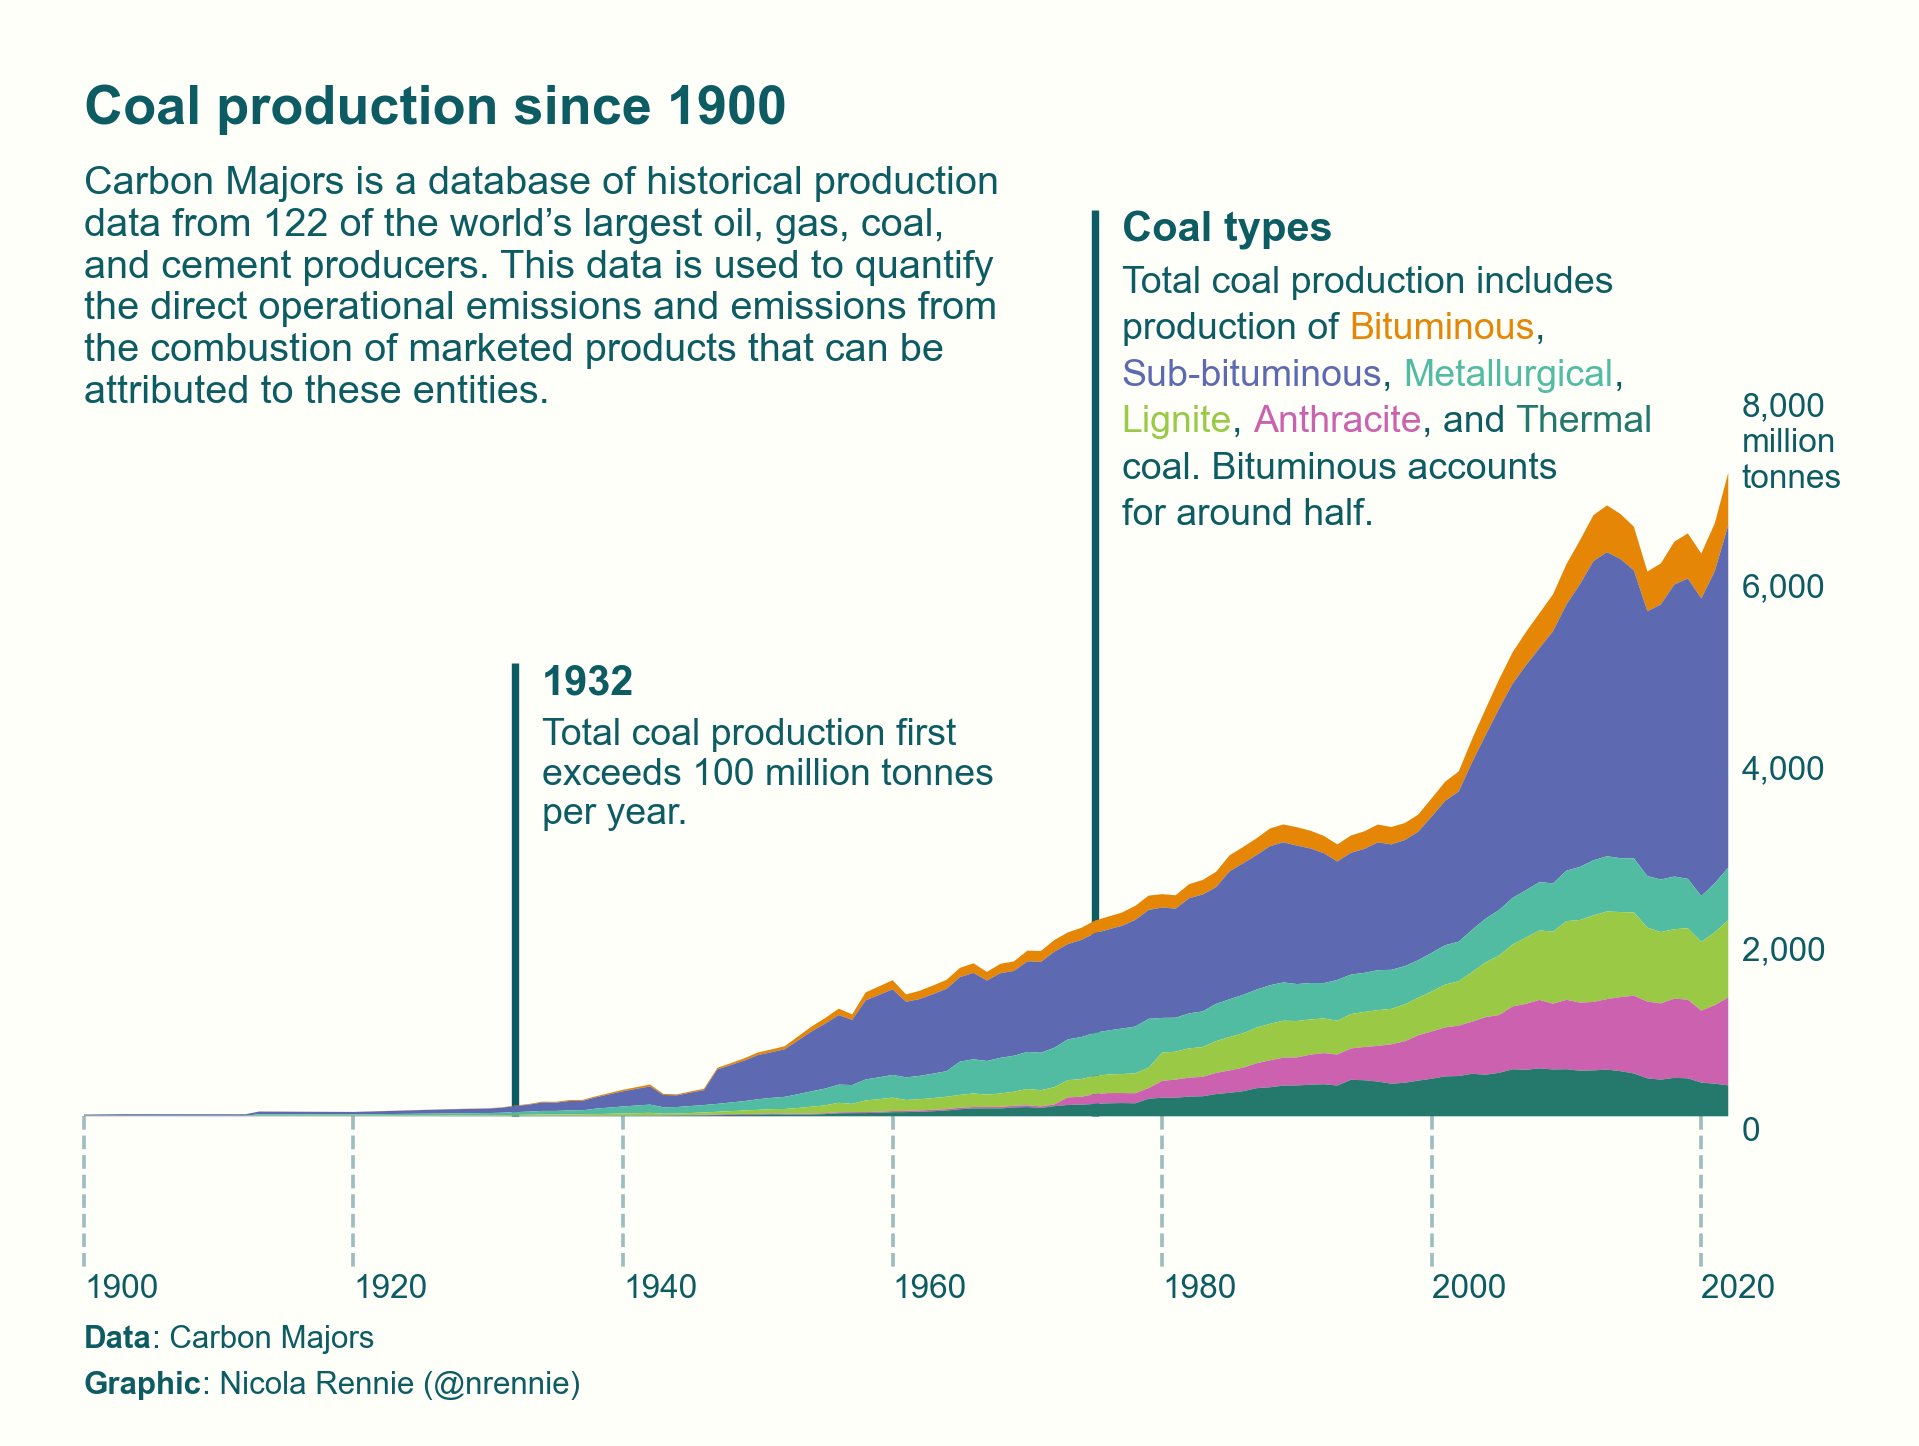
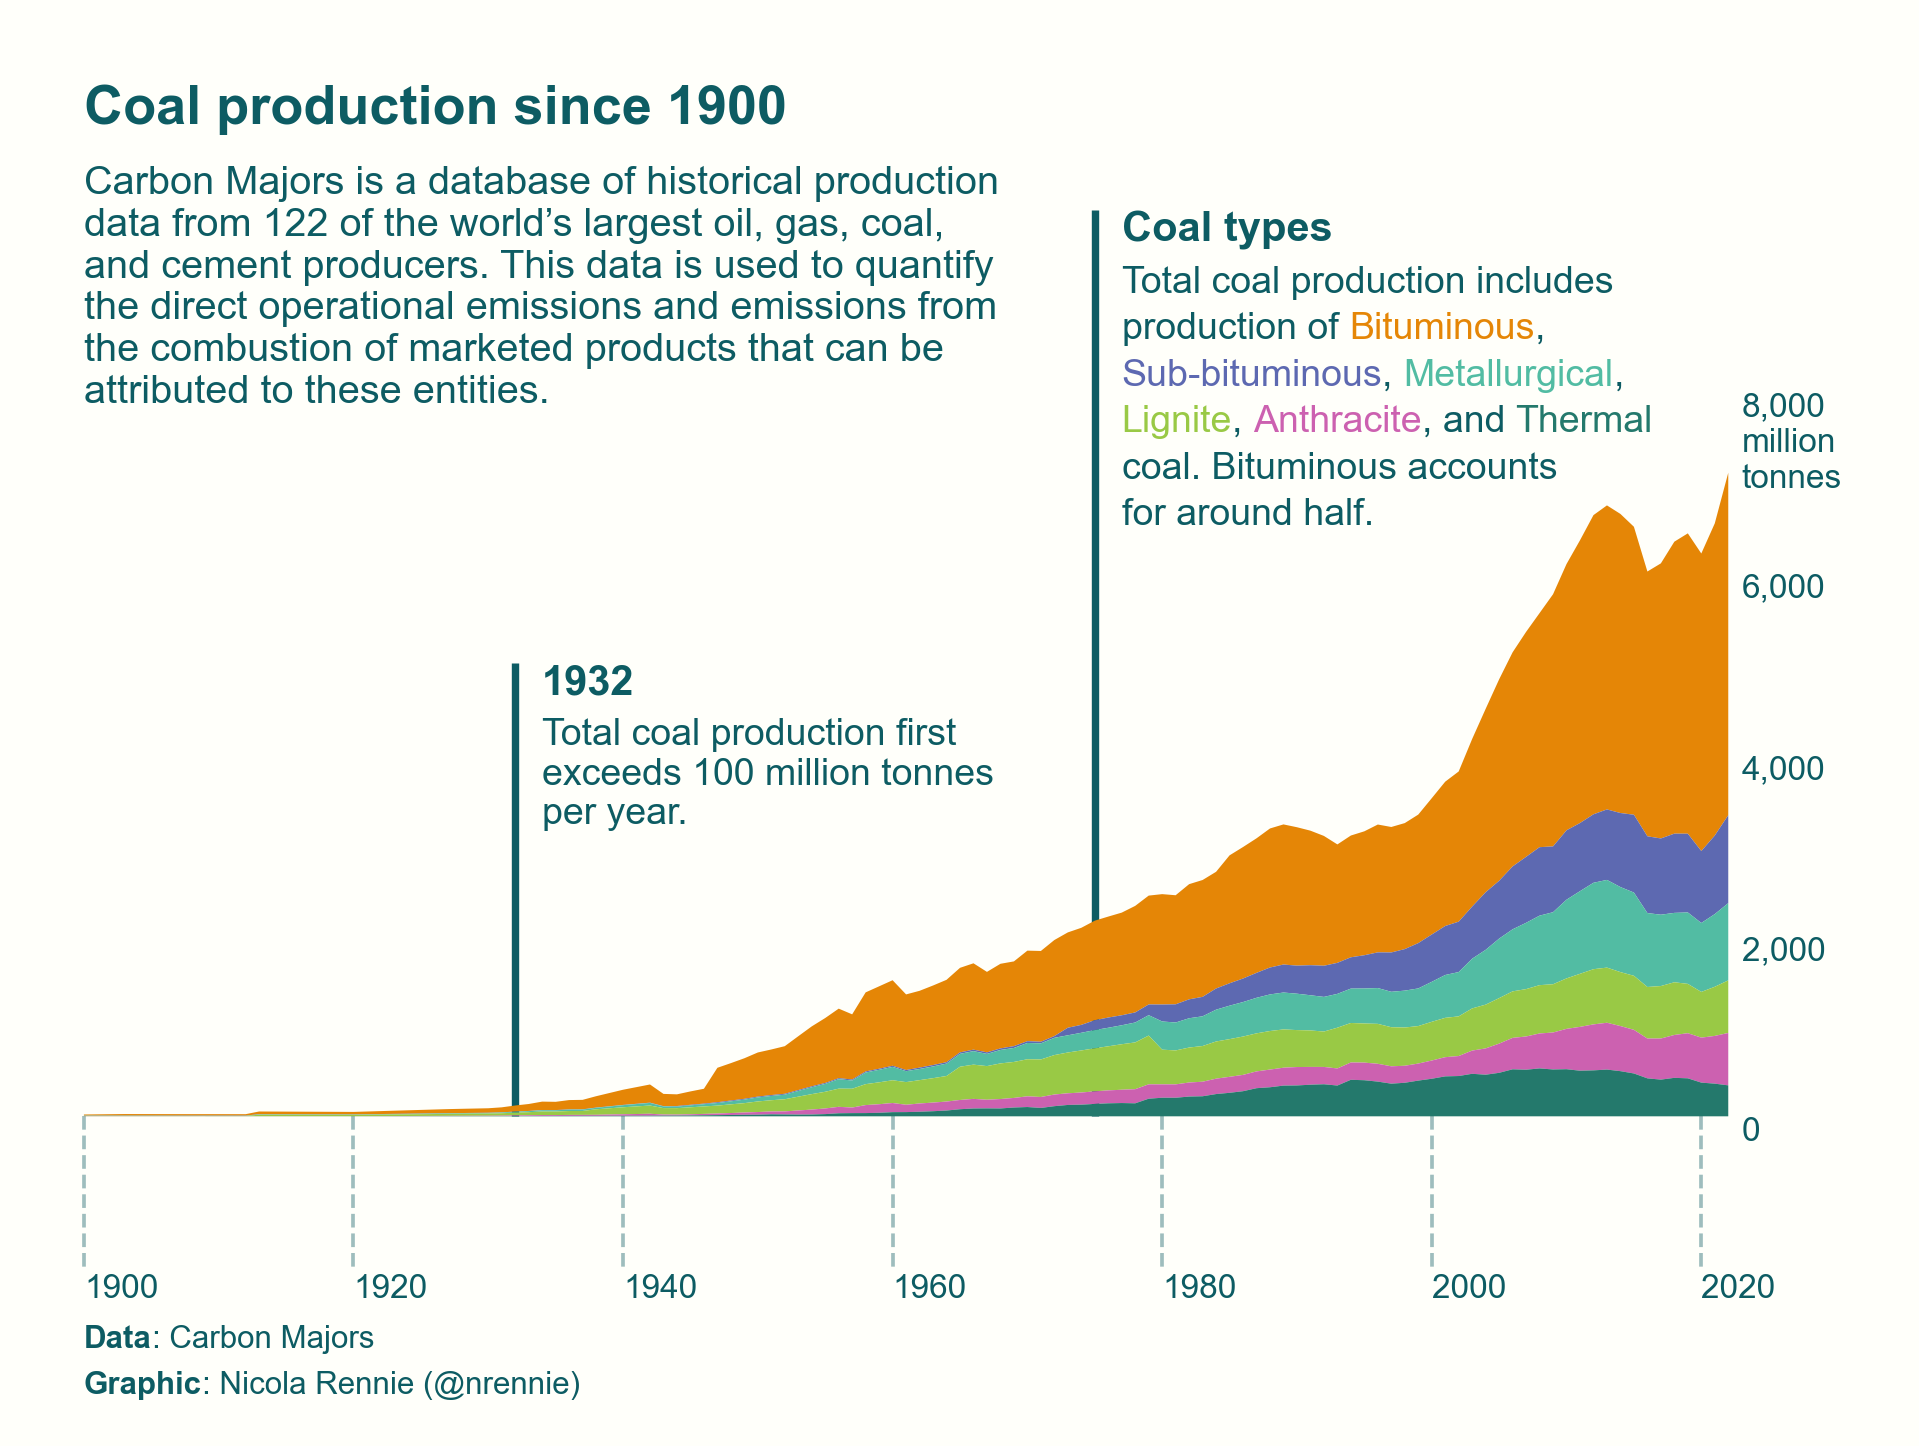
fix ordering

Changed region(s): [[0.1537, 0.3734, 0.9224, 0.778]]

diff --git a/plot.py b/plot.py
@@ -29,6 +29,14 @@ plot_data = plot_data.groupby(['year', 'commodity'], as_index=False).agg(
     {'production_value': 'sum'}).rename(columns={'production_value': 'n'})
 plot_data = plot_data[plot_data['year'] >= 1900]
 
+# Sort values by 2022 levels
+orders = plot_data[plot_data['year'] == 2022].sort_values(
+    by='n', ascending=False)['commodity']
+plot_data['commodity'] = pd.Categorical(
+    plot_data['commodity'],
+    categories=orders,
+    ordered=True)
+
 # Values for annotations
 exceeds100 = plot_data.groupby('year')['n'].sum()
 exceeds100 = exceeds100[exceeds100 > 100].index.min()
@@ -183,6 +191,6 @@ ht.ax_text(
     va='top')
 ht.ax_text(1900, -2300, cap, color=text_col,
            fontname=body_font, fontsize=7.5, va='top')
-           
+
 # Save image
 plt.savefig('plot.png', dpi=300, bbox_inches='tight')
